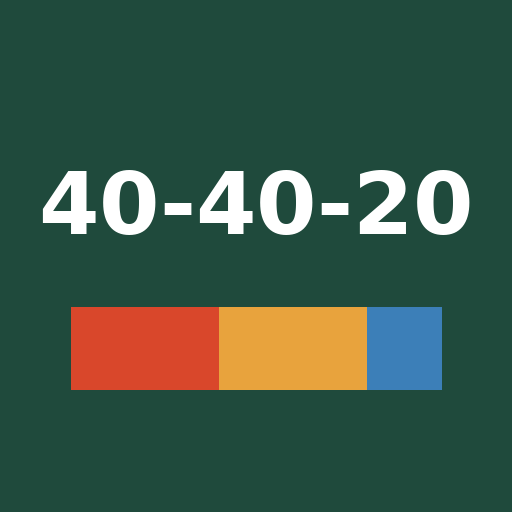
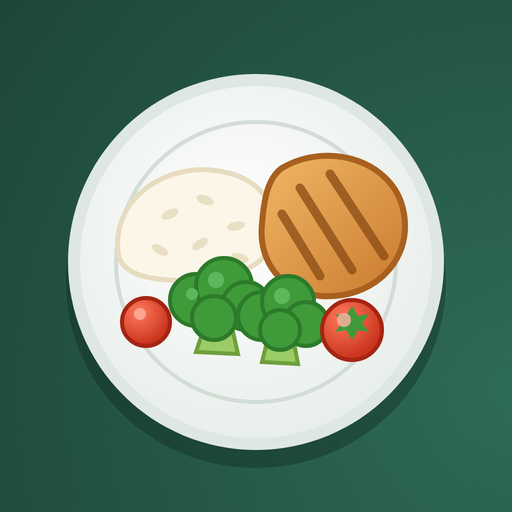
Add files via upload

diff --git a/sw.js b/sw.js
@@ -1,4 +1,4 @@
-const CACHE = 'meal-plans-v5';
+const CACHE = 'meal-plans-v6';
 const FILES = ['./', './index.html', './manifest.webmanifest', './icon-192.png', './icon-512.png', './apple-touch-icon.png'];
 self.addEventListener('install', e => { e.waitUntil(caches.open(CACHE).then(c => c.addAll(FILES)).then(() => self.skipWaiting())); });
 self.addEventListener('activate', e => { e.waitUntil(caches.keys().then(ks => Promise.all(ks.filter(k => k !== CACHE).map(k => caches.delete(k)))).then(() => self.clients.claim())); });

diff --git a/README.md b/README.md
@@ -18,7 +18,8 @@ A phone-friendly meal plan app: 2,100 calories a day at 40% protein, 40% carbs a
 | `index.html` | The app (all content is inside this file) |
 | `manifest.webmanifest` | App name, colors and icon for "Add to Home Screen" |
 | `sw.js` | Lets the app open without a connection after the first visit |
-| `icon-192.png`, `icon-512.png`, `apple-touch-icon.png` | Home screen icons |
+| `icon-192.png`, `icon-512.png`, `apple-touch-icon.png` | Home screen icons (cartoon plate of food) |
+| `icon.svg` | The icon artwork, in case you want to edit it |
 | `.nojekyll` | Tells GitHub Pages to serve the files as they are |
 | `downloads/40-40-20-Complete-Meal-Plan-Collection.docx` | The full collection as a Word file |
 
